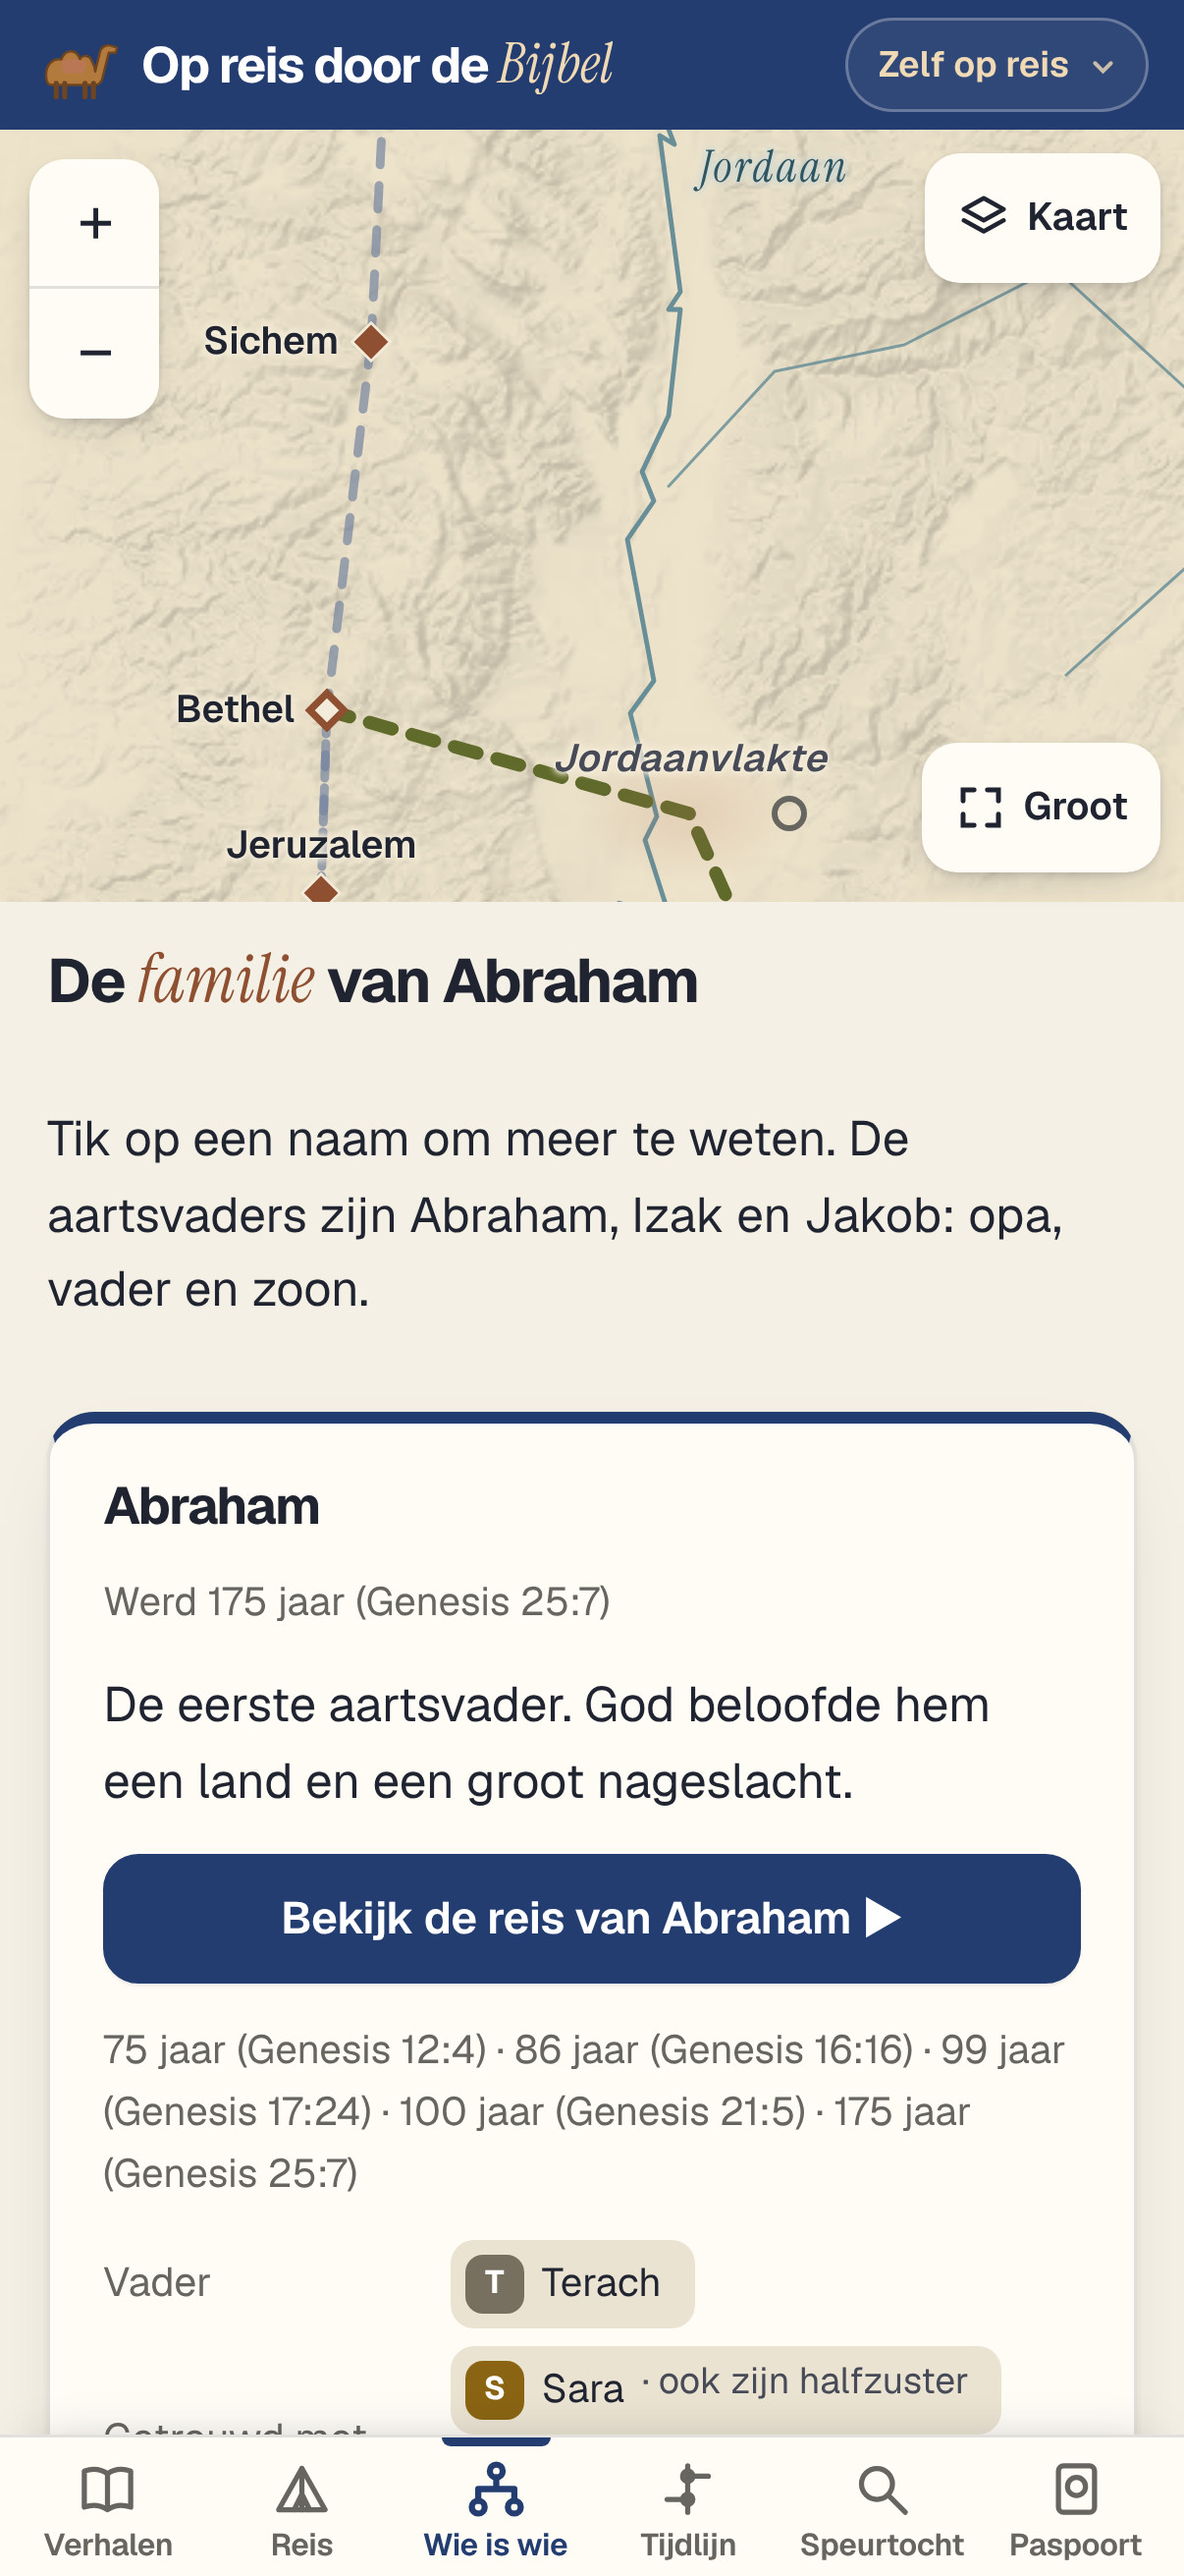
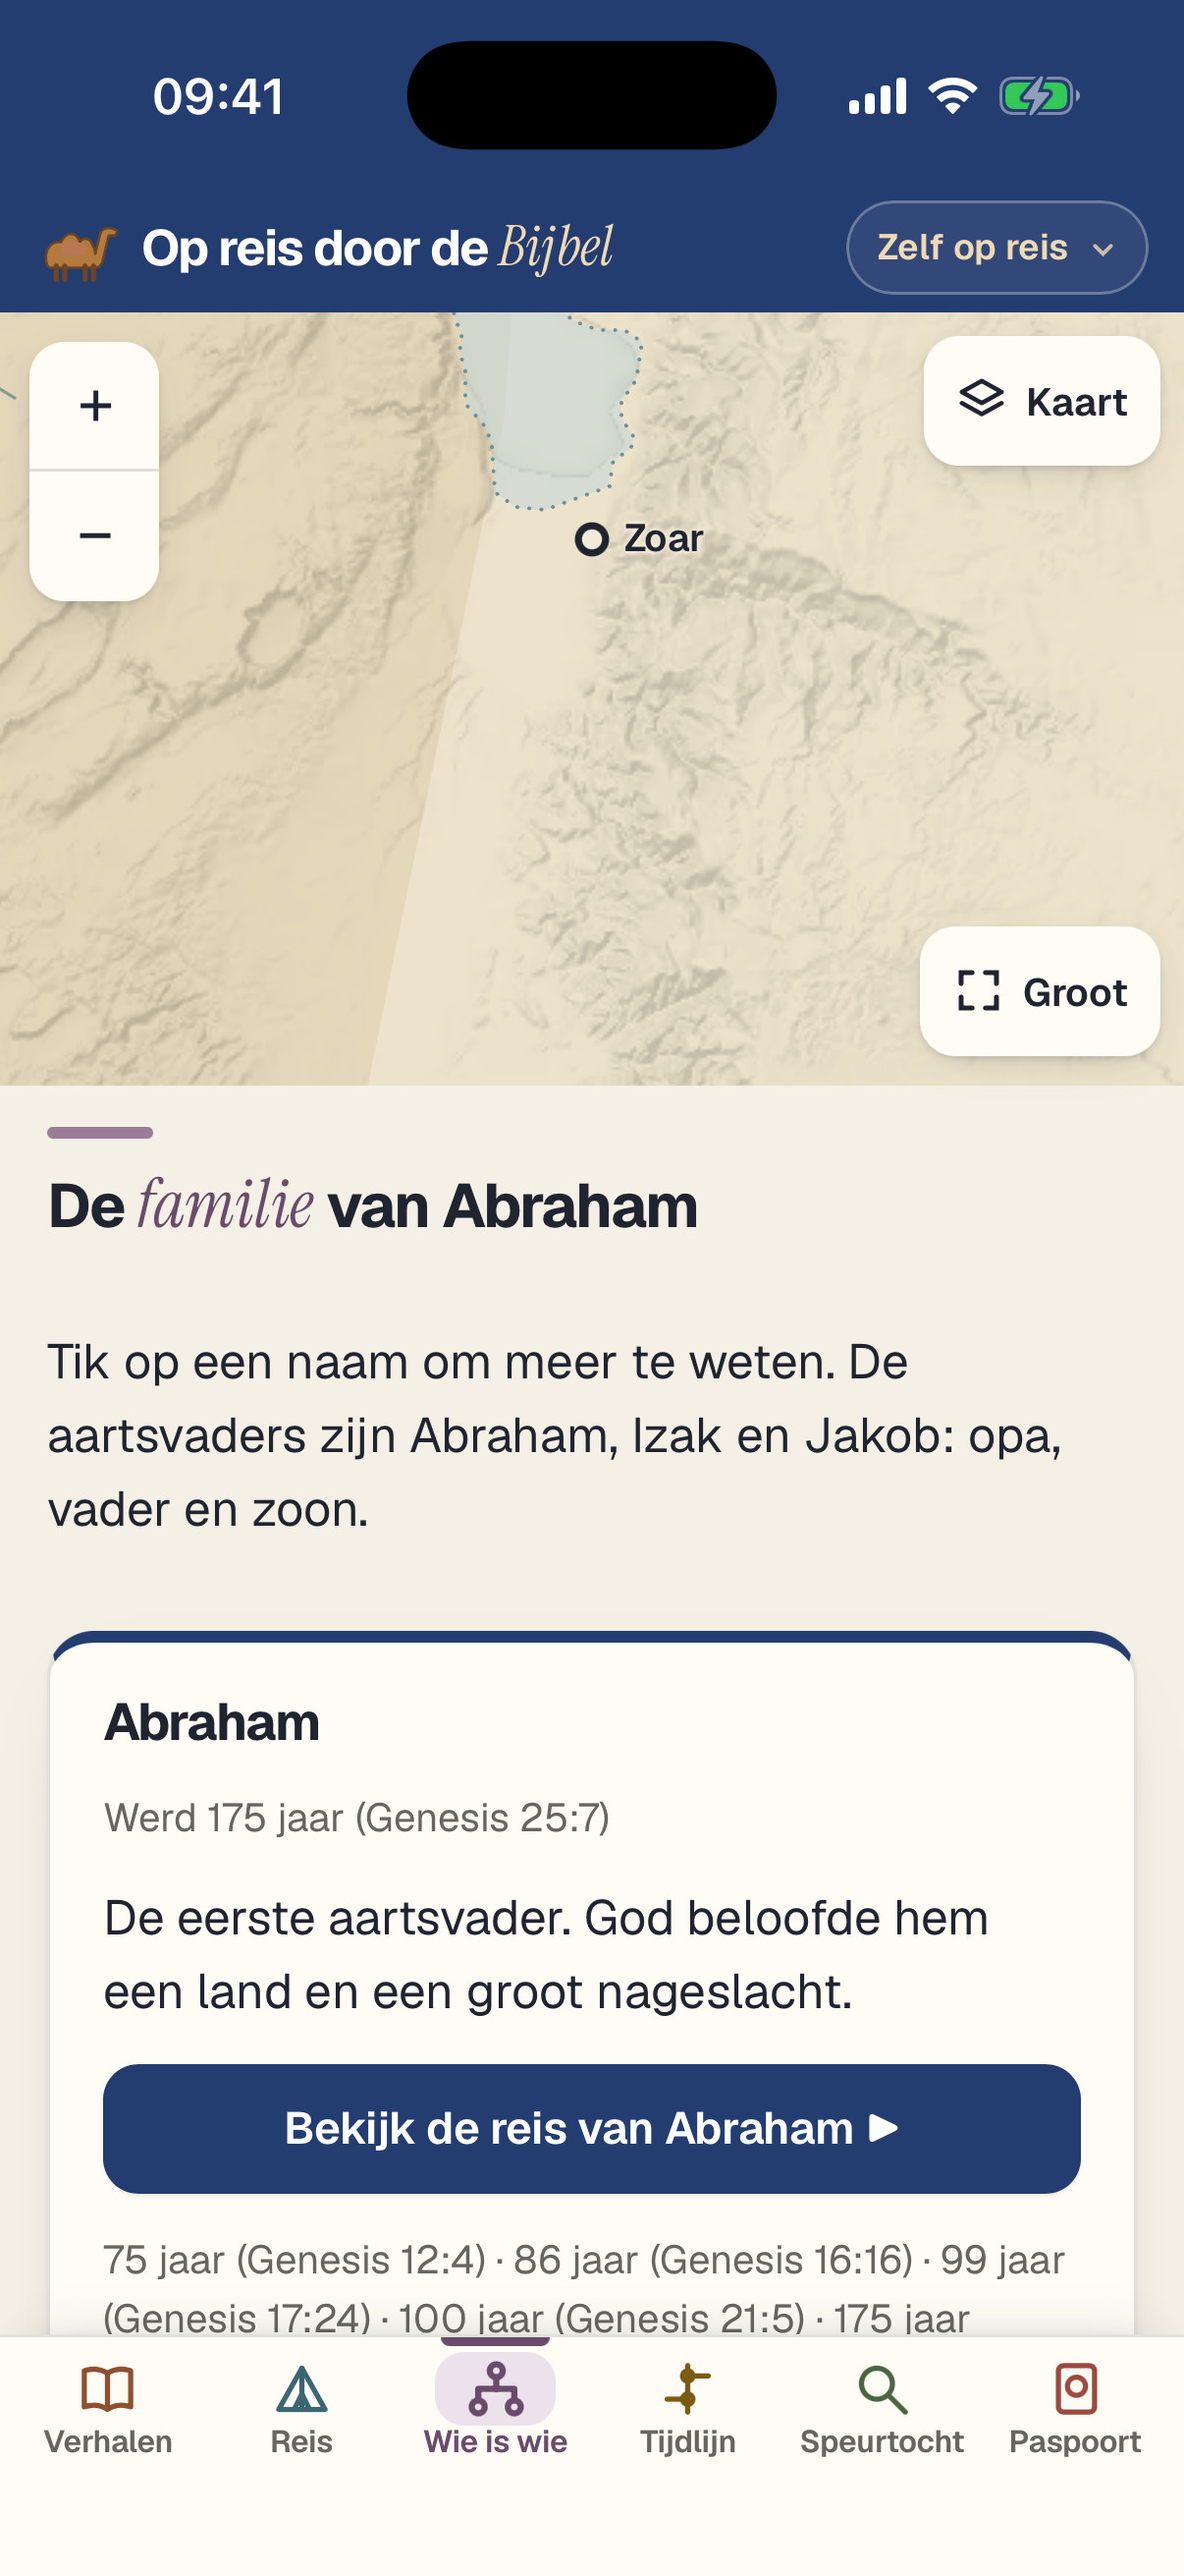
Bijbelreis iOS: App Store-schermafbeeldingen uit de iOS-simulator; simulator-test neemt een leeg of oud beeld opnieuw
- store/screenshots: echte simulatorbeelden (iPhone 17 Pro Max 1320×2868, iPhone 17 Pro 1206×2622, iPad Pro 13-inch
  (M5) 2064×2752; iOS 26.5; JPEG zonder alfa) uit run 44764014669, op de nieuwste main
- screenshots.mjs schrijft browserweergaven nu naar store/screenshots-browser/ (niet in git)
- simulator-test.mjs: een leeg of oud beeld van simctl wordt tot 6 keer opnieuw genomen (iPad, run 44764014669)

Claude-Session: https://claude.ai/code/session_01UATKx6UxsaYkAXo5tNKtaQ

diff --git a/docs/bijbelreis-ios/APPSTORE.md b/docs/bijbelreis-ios/APPSTORE.md
@@ -328,8 +328,10 @@ toestellen.
 
 **Het zijn echte simulatorbeelden:** de app zelf in WKWebView in de iOS-simulator (iOS 26.5), met statusbalk (9:41,
 volle batterij), Dynamic Island en de echte lettertypen, gemaakt door de workflow `iOS-app` (artefact
-**simulator-schermafbeeldingen**, map `appstore/`); de bron-run staat in de commit die ze toevoegde. De vorige set waren
-browserweergaven (Chromium, zonder statusbalk); die zijn vervangen. Nieuwe maken: workflow starten (Actions → iOS-app →
+**simulator-schermafbeeldingen**, map `appstore/`), run 44764014669 van 20-11-2026 op de branch met de nieuwste main
+(https://github.com/MartijndBesten/Martijn-den-Besten/actions/runs/44764014669). De vorige set waren browserweergaven
+(Chromium, zonder statusbalk); die zijn vervangen. `npm run screenshots` maakt nog browserweergaven, maar nu in
+`store/screenshots-browser/` (niet in git), zodat ze de simulatorbeelden niet overschrijven. Nieuwe maken: workflow starten (Actions → iOS-app →
 Run workflow), artefact downloaden, `appstore/<map>/*.jpg` over `apps/ios/store/screenshots/` zetten.
 
 **Brede doelgroep:** de beelden tonen gewone onderdelen (een geschiedenis met Bijbelplaats, een reis, een stamboom, een

diff --git a/apps/ios/README.md b/apps/ios/README.md
@@ -78,7 +78,7 @@ npm run sync          # webmap + cap sync ios (werkt ook op Linux)
 npm run test:web      # test-webmap.mjs in Chromium op iPhone-maat (Playwright uit de root: npm ci in de root)
 BROWSER=webkit npm run test:web   # zelfde test in Playwright-WebKit (dichter bij WKWebView)
 npm run controleer    # Xcode-project, plists, pictogram en teksten (zonder Mac)
-npm run screenshots   # schermafbeeldingen voor de App Store → store/screenshots/
+npm run screenshots   # browserweergaven (Chromium) → store/screenshots-browser/ (niet in git); App Store: simulatorbeelden
 npm run open          # alleen op de Mac: opent Xcode
 ```
 
